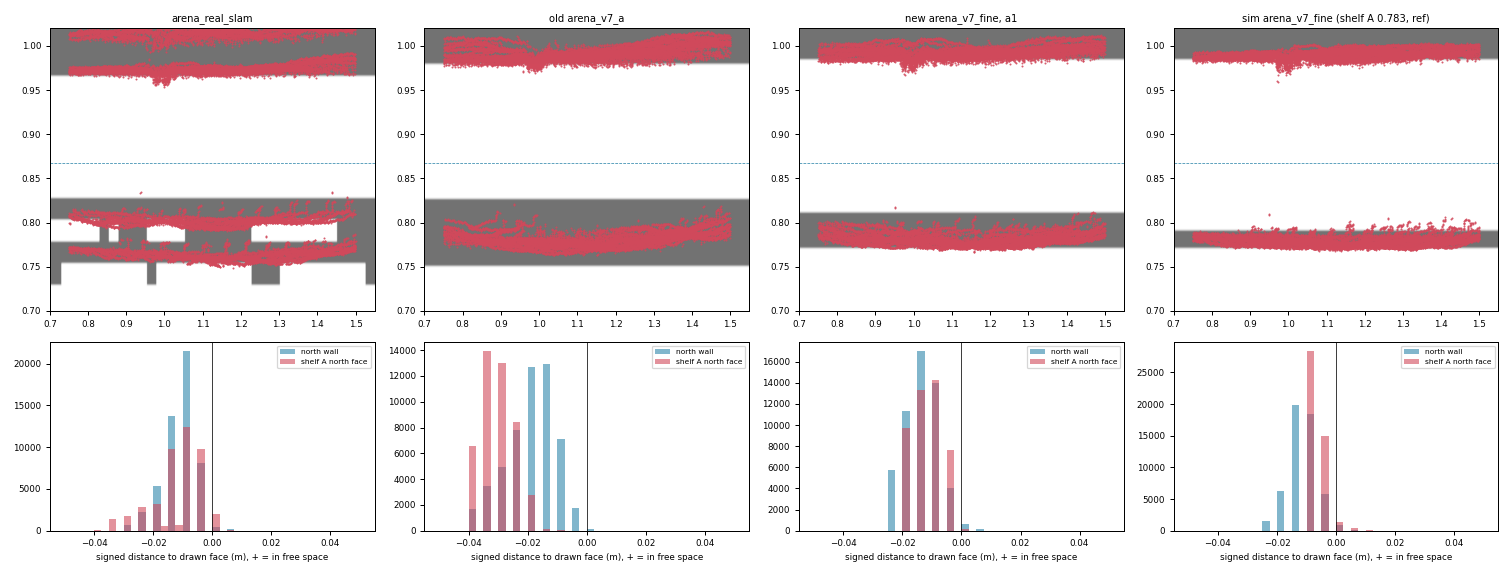
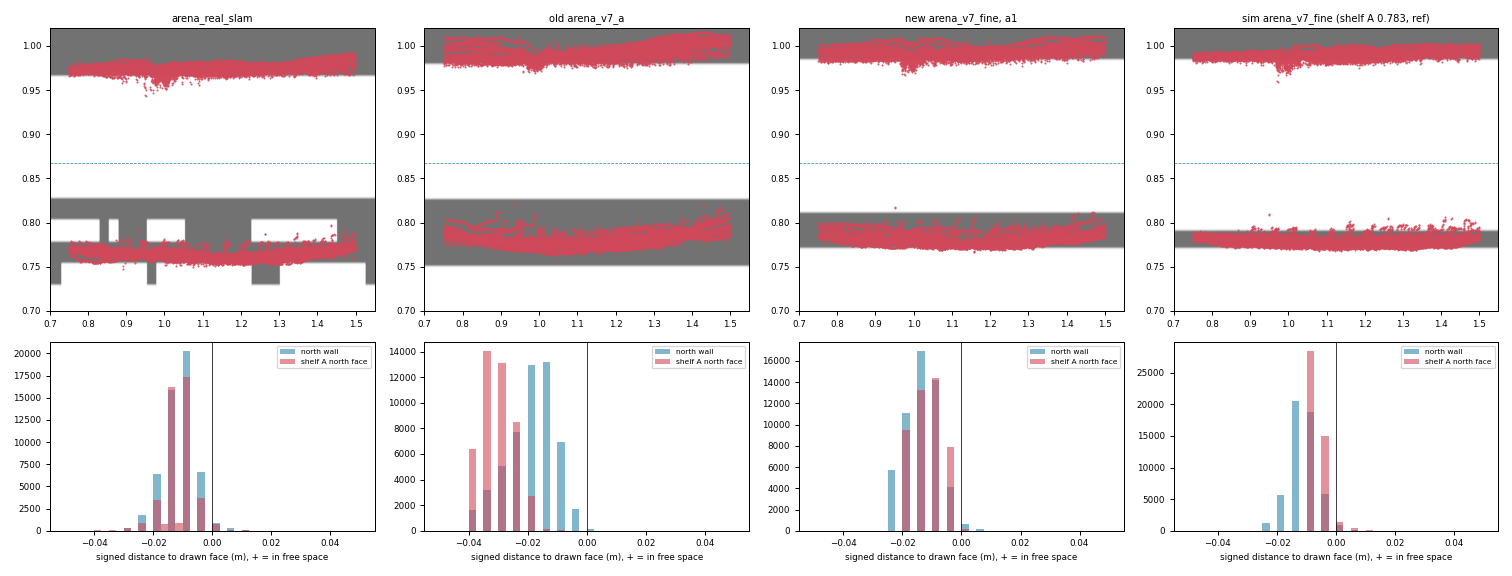
docs: scan overlay counts off-map points as far and keeps the better fit; label the old costmap column

diff --git a/docs/kit_maps_2026-11-24/scan_overlay.py b/docs/kit_maps_2026-11-24/scan_overlay.py
@@ -31,6 +31,7 @@ from scipy import ndimage, optimize
 LASER_XY = (-0.017, 0.0)  # base_link->rplidar_mount, 방향 pi(rplidar_link)
 LASER_YAW = math.pi
 SIGMA, Z_HIT, Z_RAND, MAX_RANGE = 0.05, 0.5, 0.5, 100.0
+MAX_DIST = 2.0  # laser_likelihood_max_dist
 GRID = 0.005  # 거리장 칸(지도를 이 칸으로 나눠 그림)
 X_LO, X_HI = 0.80, 1.45
 SELF_M = 0.10  # 이보다 가까운 점은 로봇 자기 몸(급행에서 y 0.84, 0.91 줄로 찍힘)
@@ -112,16 +113,20 @@ class Field:
         self.inn = ndimage.distance_transform_edt(self.occ) * GRID  # 점유 칸 안에서 빈칸까지
 
     def idx(self, pts):
-        i = np.clip(((pts[:, 0] - self.ox) / GRID).astype(int), 0, self.occ.shape[1] - 1)
-        j = np.clip(((pts[:, 1] - self.oy) / GRID).astype(int), 0, self.occ.shape[0] - 1)
-        return j, i
+        """칸 번호와 지도 안 여부. 지도 밖 점은 AMCL처럼 가장 먼 거리(MAX_DIST)로 본다."""
+        i = np.floor((pts[:, 0] - self.ox) / GRID).astype(int)
+        j = np.floor((pts[:, 1] - self.oy) / GRID).astype(int)
+        inside = (i >= 0) & (j >= 0) & (i < self.occ.shape[1]) & (j < self.occ.shape[0])
+        return np.where(inside, j, 0), np.where(inside, i, 0), inside
 
     def dist(self, pts):
-        return self.out[self.idx(pts)]
+        j, i, inside = self.idx(pts)
+        return np.where(inside, self.out[j, i], MAX_DIST)
 
     def signed(self, pts):
-        j, i = self.idx(pts)
-        return np.where(self.occ[j, i], -self.inn[j, i] + GRID / 2, self.out[j, i] - GRID / 2)
+        j, i, inside = self.idx(pts)
+        d = np.where(self.occ[j, i], -self.inn[j, i] + GRID / 2, self.out[j, i] - GRID / 2)
+        return np.where(inside, d, MAX_DIST)
 
 
 def to_map(pose, pts):
@@ -150,7 +155,8 @@ def refit(field, pose, pts):
                                                      (pose[1] - 0.1, pose[1] + 0.1),
                                                      (pose[2] - 0.105, pose[2] + 0.105)],
                             options={"xtol": 1e-4, "ftol": 1e-6})
-    return tuple(res.x)
+    found = tuple(res.x)
+    return found if score(field, found, pts) >= best_s else best
 
 
 def groups(world):
